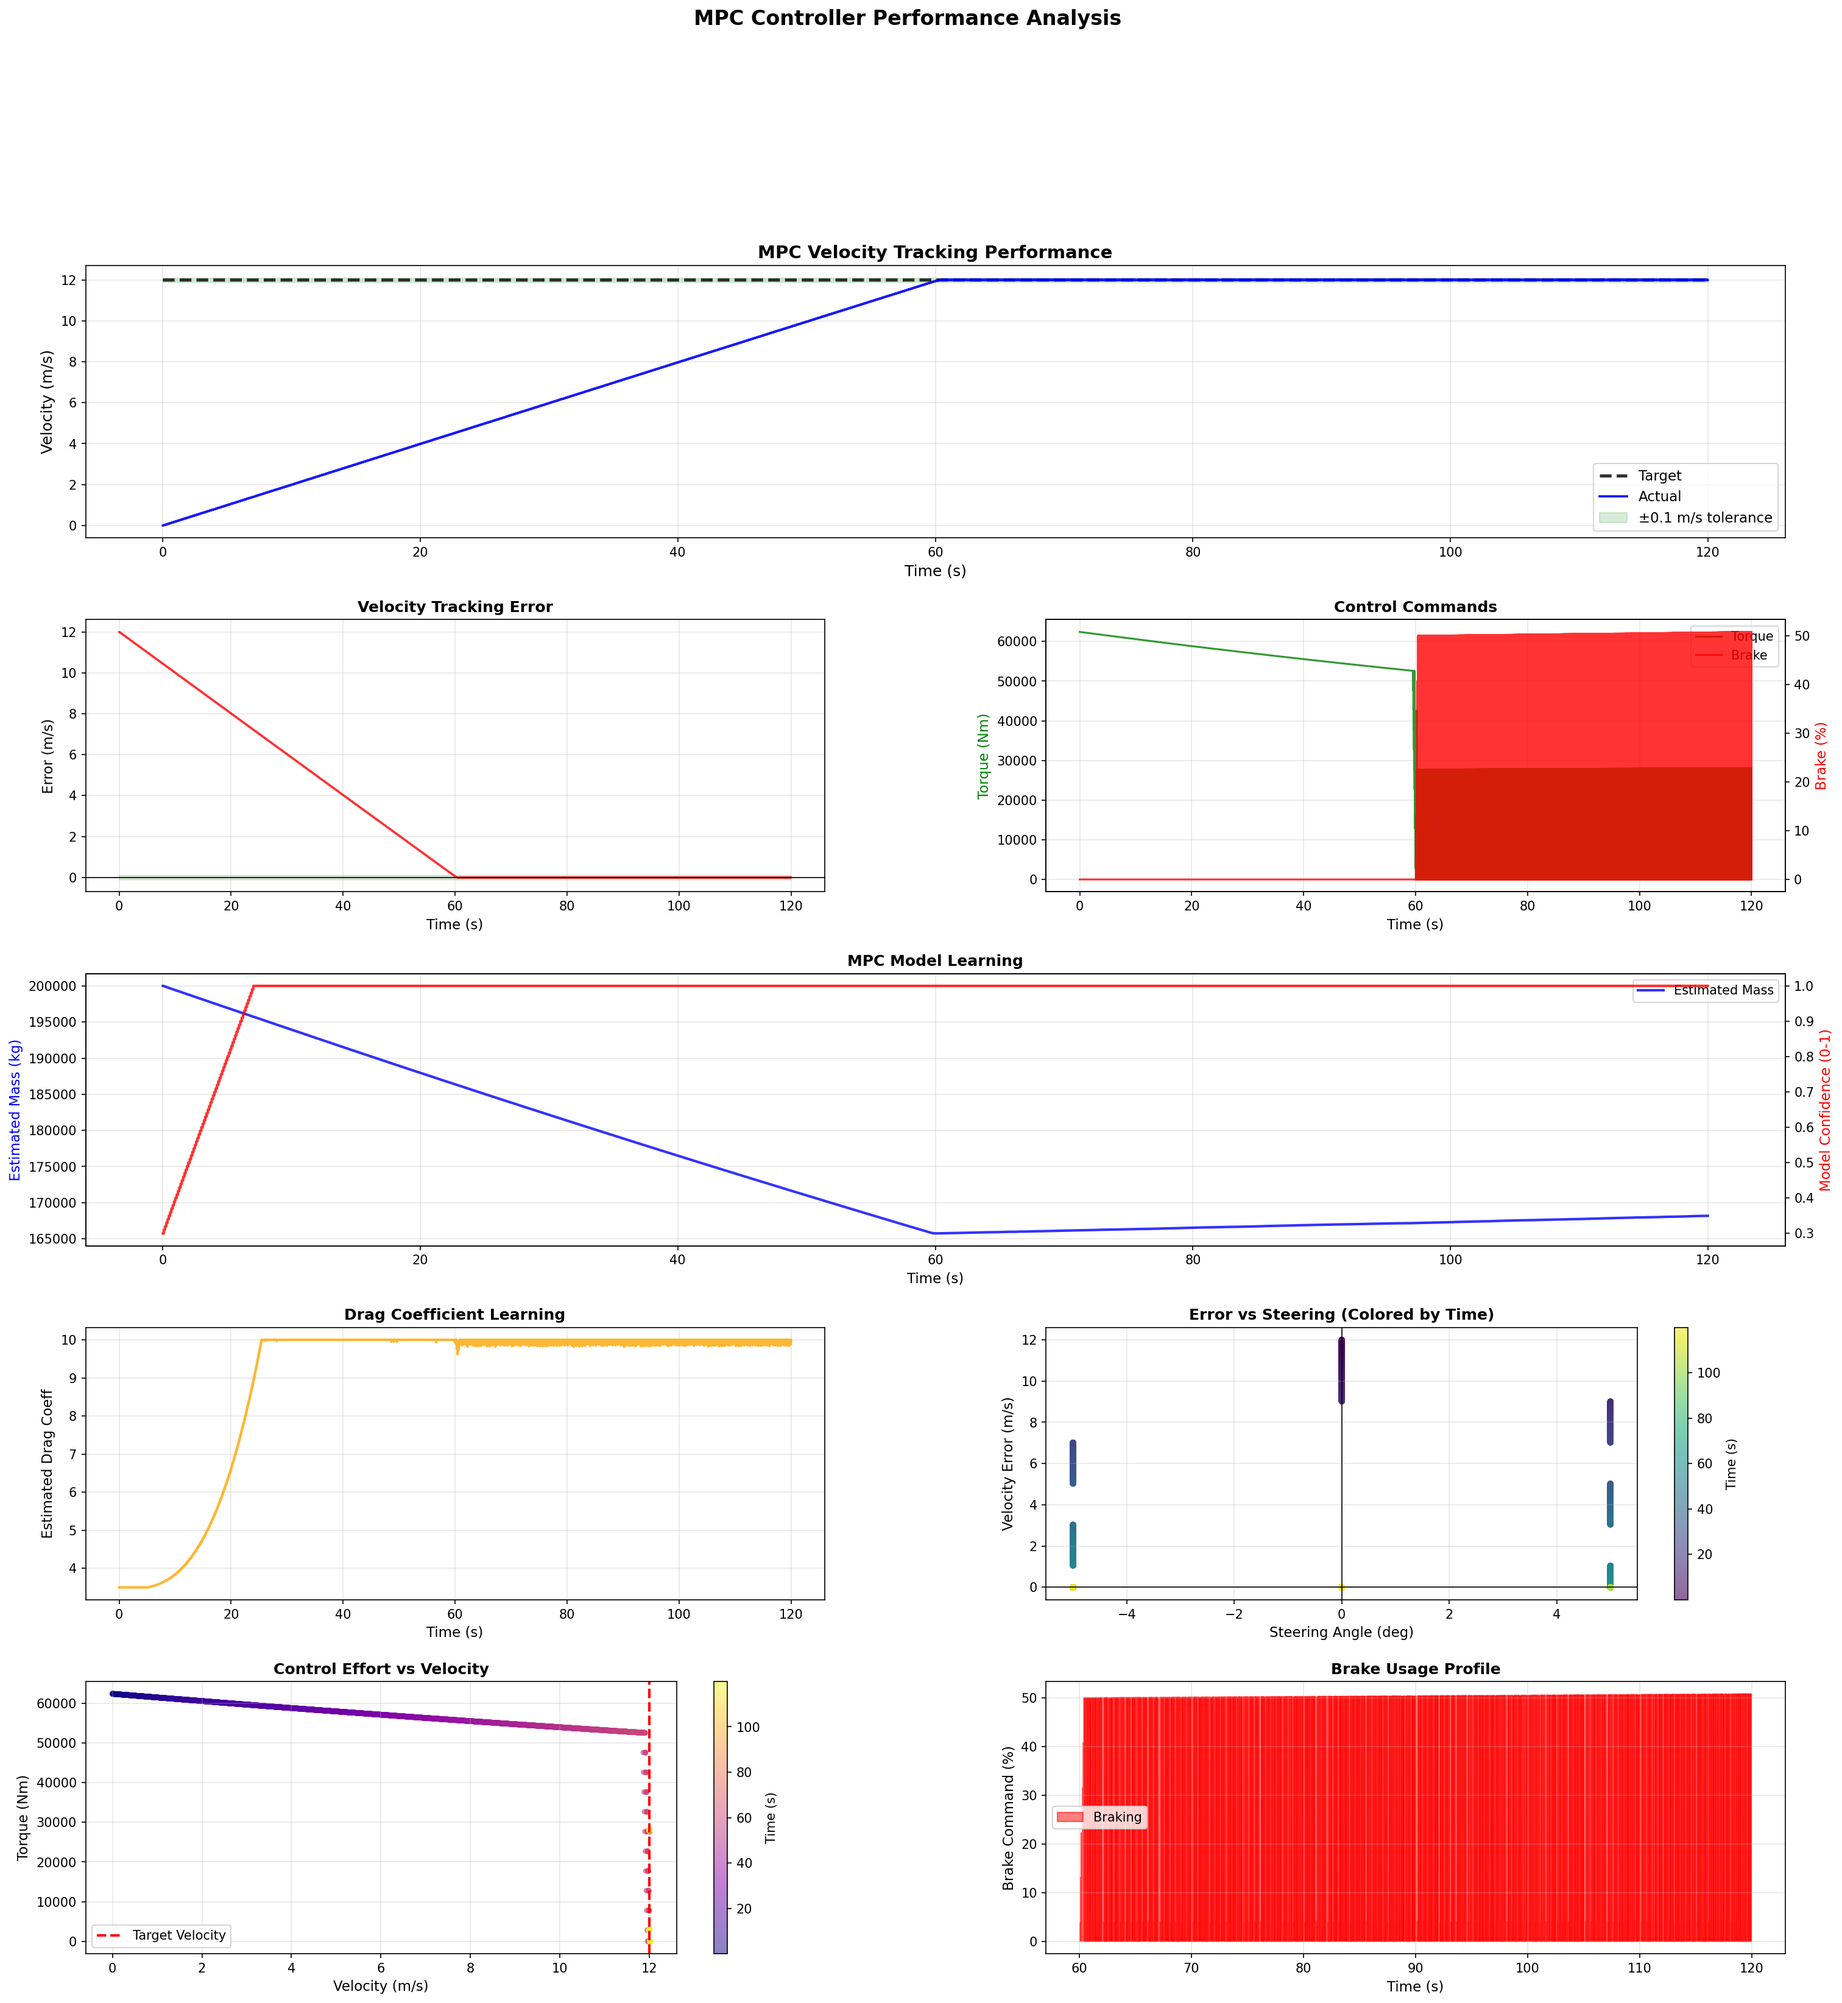
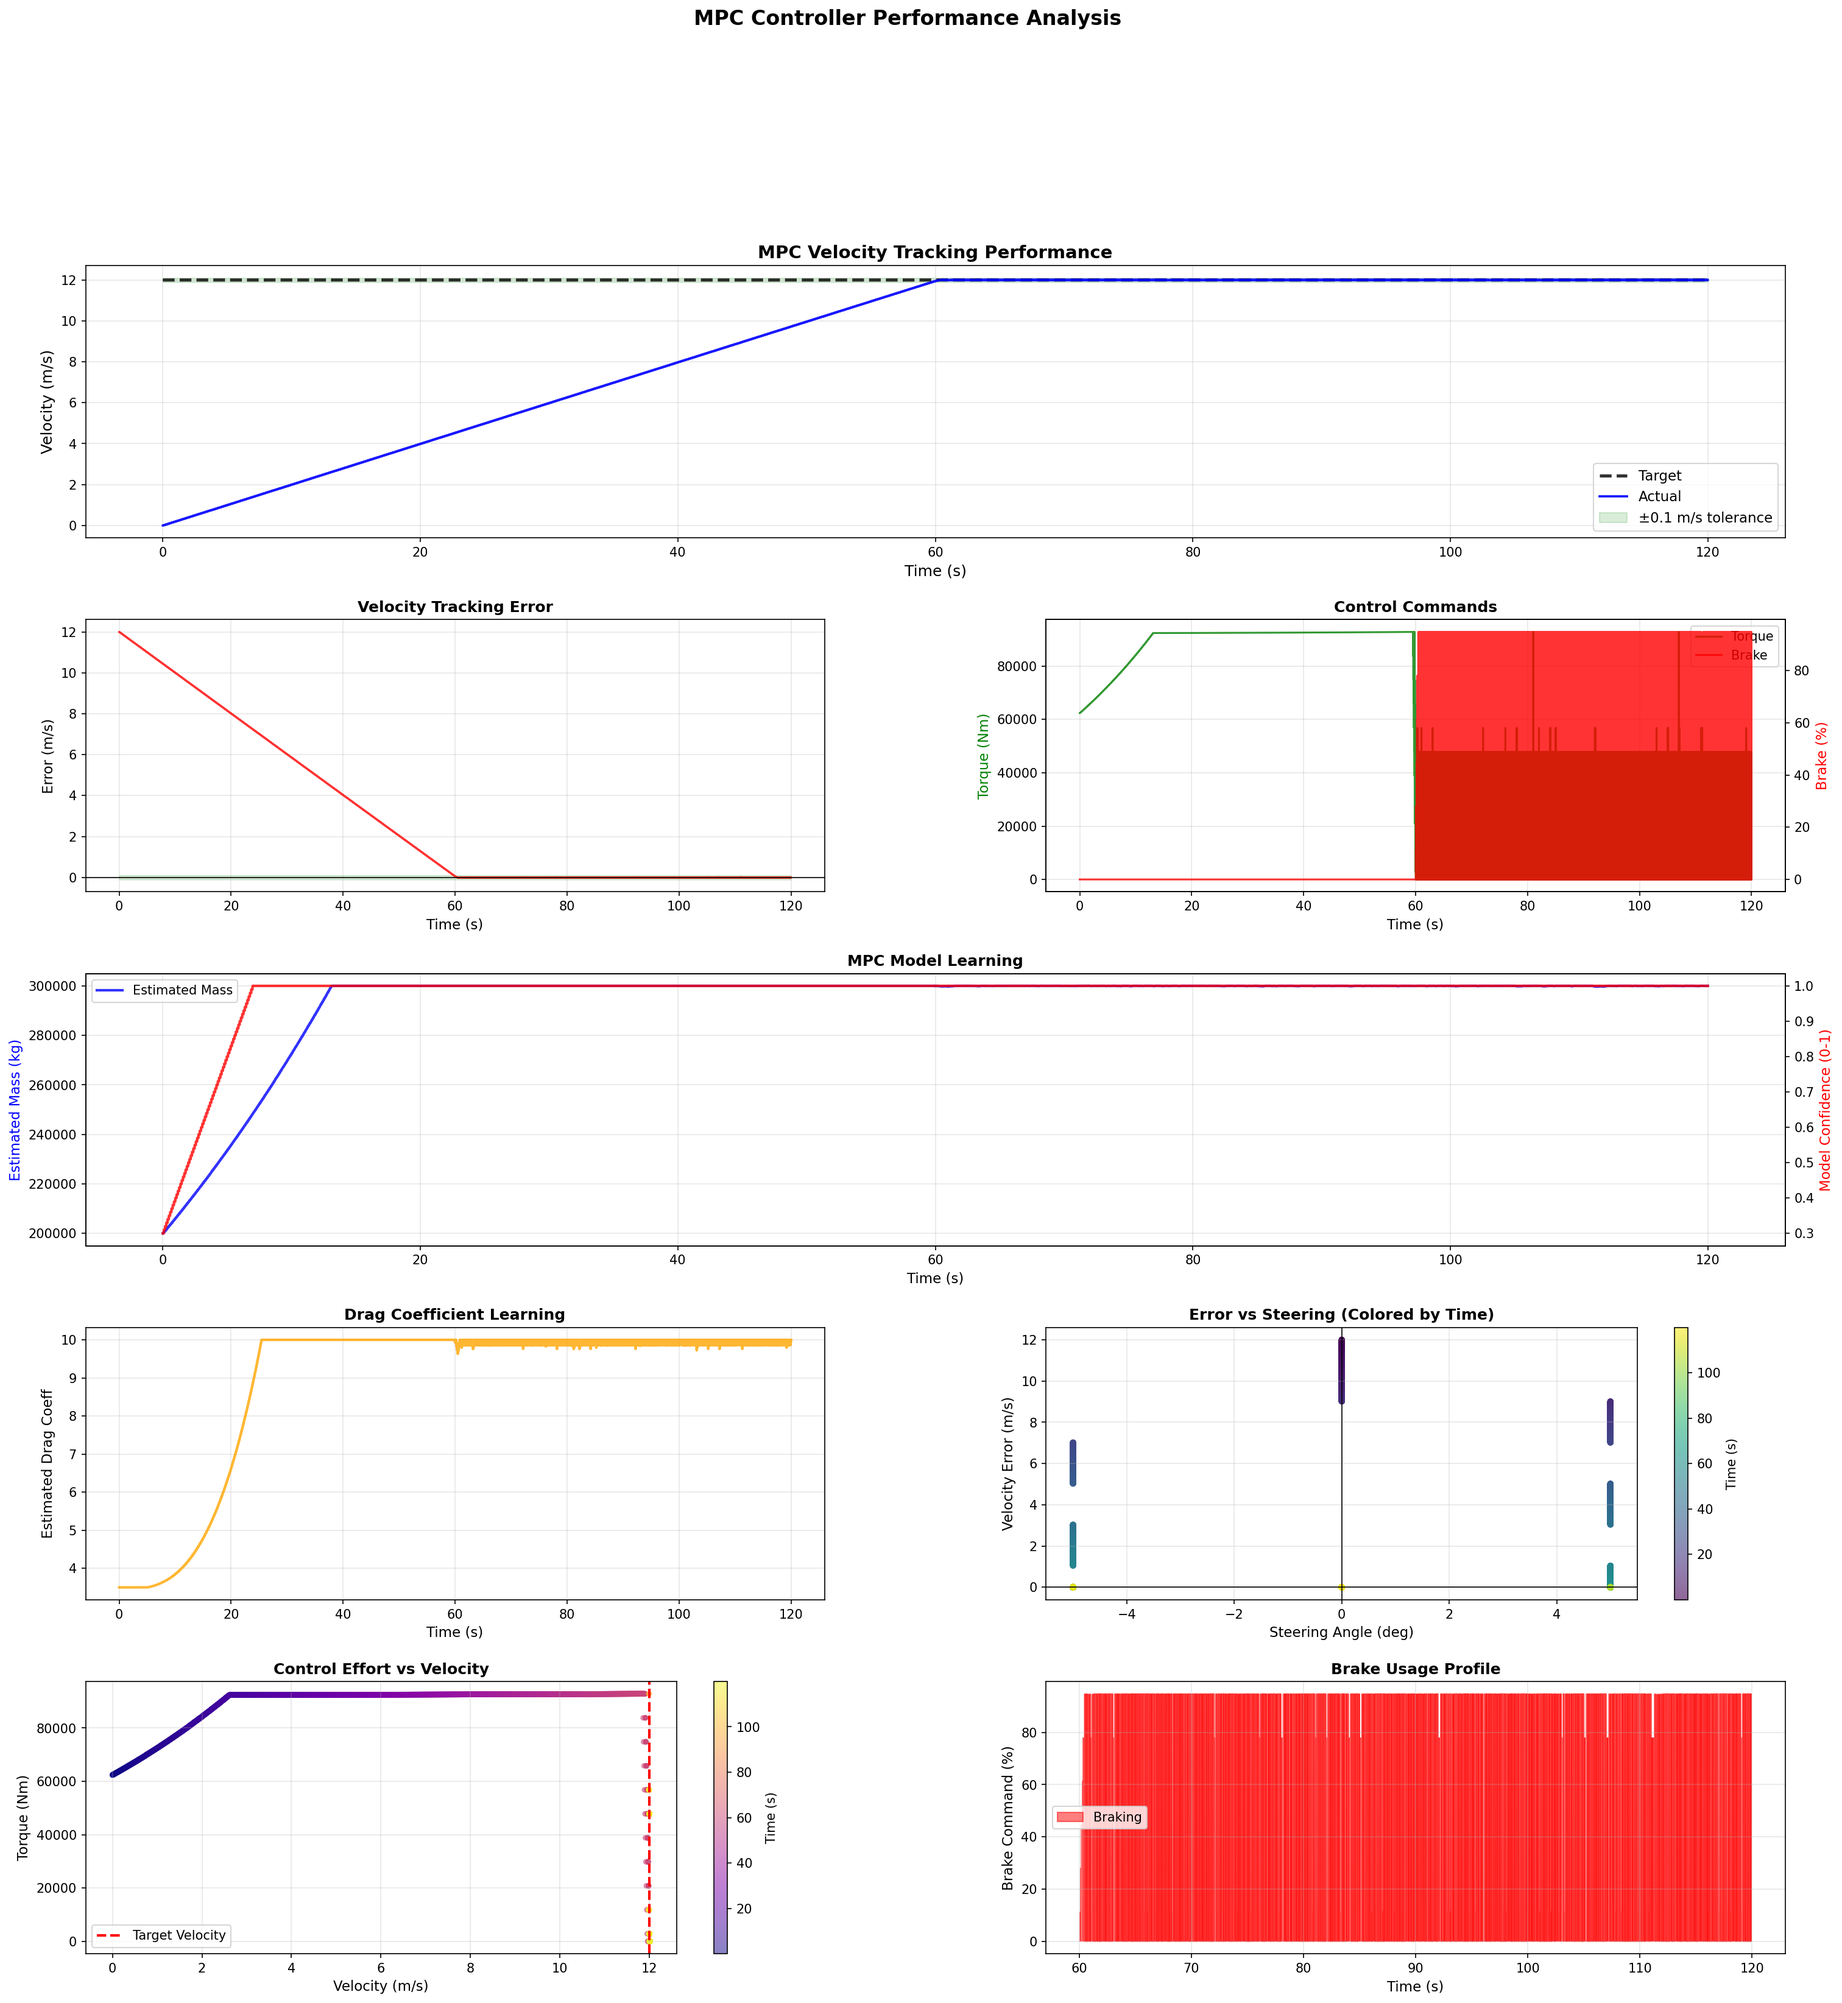
MPC tuned

diff --git a/closed_loop/longitudinal_control/mpc_controller.go b/closed_loop/longitudinal_control/mpc_controller.go
@@ -177,7 +177,8 @@ func (mpc *MPCController) adaptModel(currentVelocity float64, dt float64) {
 
 	// Update mass (inverse relationship with accel)
 	if math.Abs(driveForce) > 100 { // Only adapt when force is significant
-		mpc.model.Mass += alpha * accelError * driveForce * 0.001
+		massCorrection := -alpha * accelError * math.Abs(driveForce) * 0.01
+		mpc.model.Mass += massCorrection
 		mpc.model.Mass = ClampFloat(mpc.model.Mass, 1000, 300000) // 1-50 tons
 	}
 
